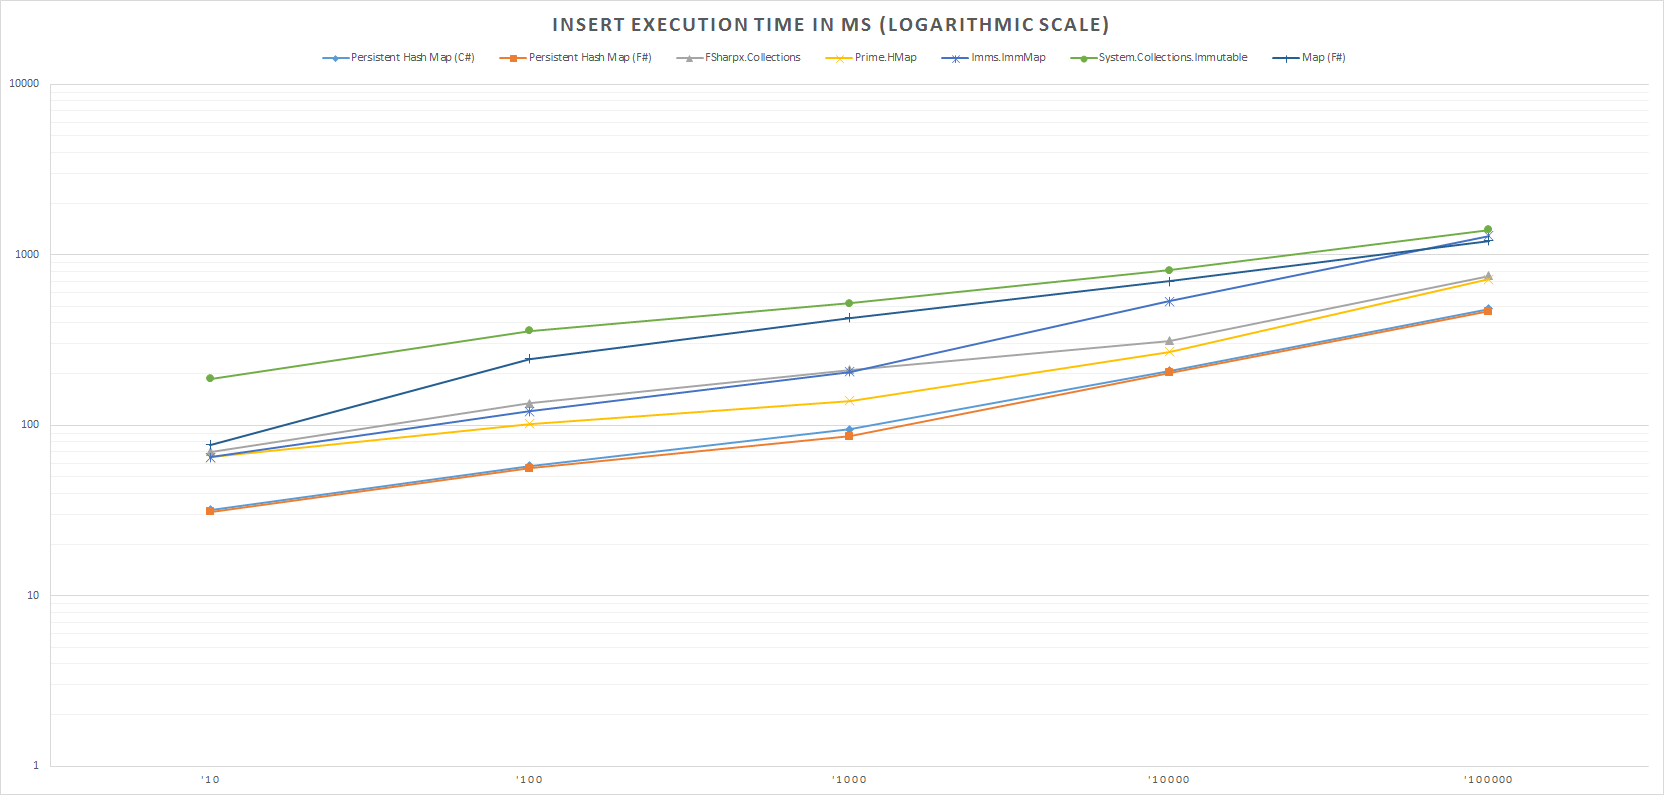
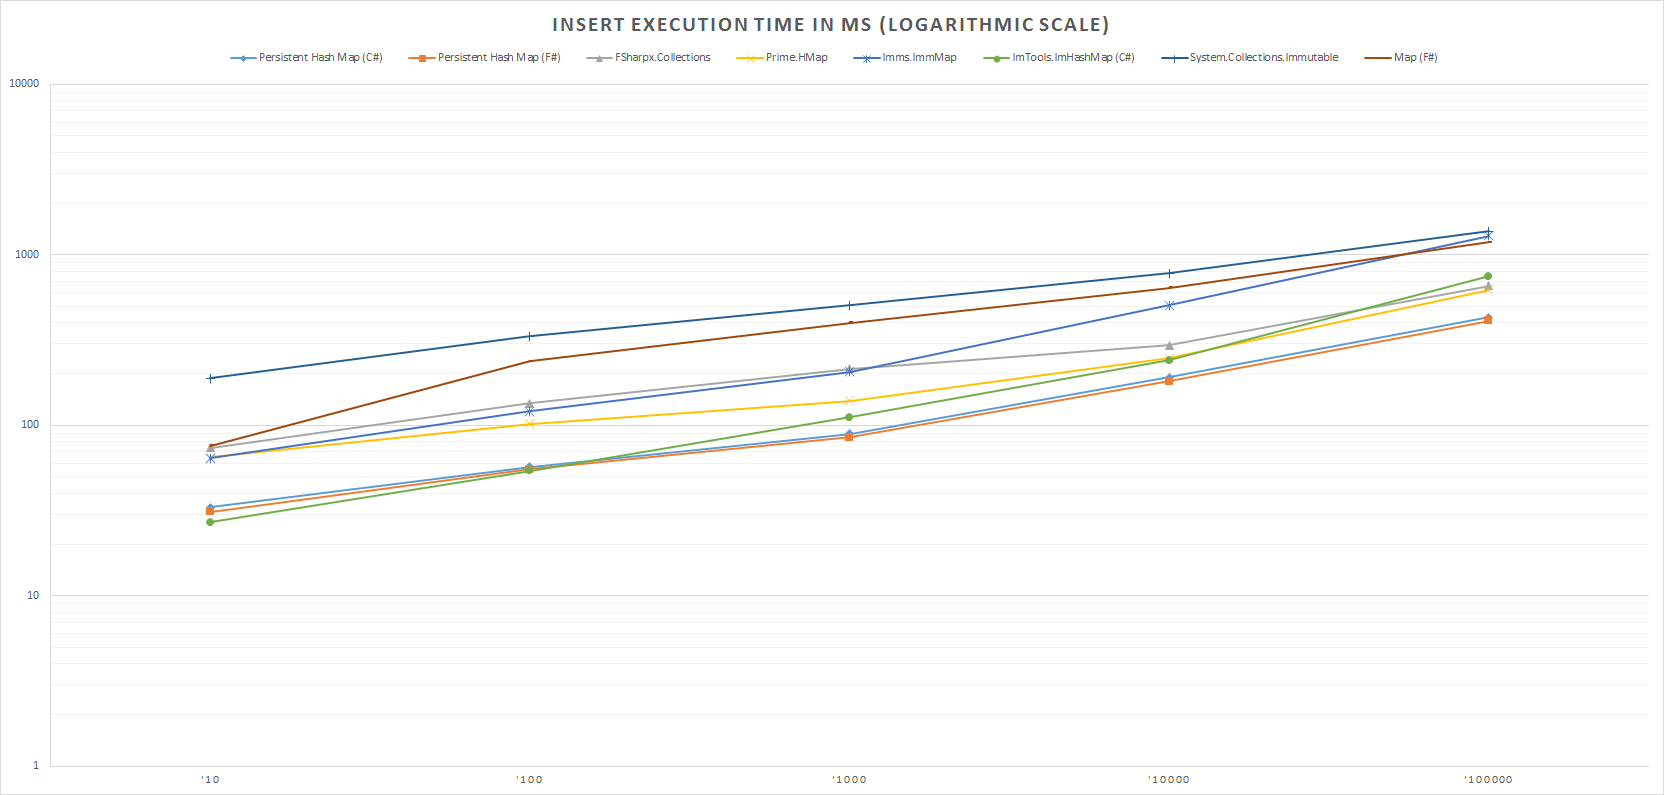
Updated performance charts

diff --git a/README.md b/README.md
@@ -17,6 +17,8 @@
 3. **2017-02-26**
   1. **Updated performance numbers** - Bryan Edds ([@bryanedds](https://github.com/bryanedds)) has been tweaking on `Prime.Hmap`
   1. **Moved images into repo** - Instead of using imgur which is getting out of hand I put the images in the repo.
+3. **2017-03-14**
+  1. **New performance test** - Maksim Volkau ([@dadhi](https://github.com/dadhi)) submitted a new test case for [ImTools](https://github.com/dadhi/ImTools).
 
 ## Background
 
@@ -365,13 +367,14 @@ In addition, it's interesting to see the **Lookup**, **Insert** and **Remove** p
 
 For these tests I focused on the following algorithms:
 
-2. **Persistent Hash Map (C#)** - "My" Map written in C#
-3. **Persistent Hash Map (F#)** - "My" Map written in F#
-5. **FSharpx.Collections.PersistentHashMap**
-6. **Prime.Vmap** - Anthony Lloyd ([@AnthonyLloyd](https://gist.github.com/AnthonyLloyd)) suggested that I compare against [Prime.Vmap](https://github.com/bryanedds/Nu/blob/master/Prime/Prime/Vmap.fs)
-7. **Imms.ImmMap** - Henrik Feldt ([@haf](https://github.com/haf)) suggested that I compare against [Imms.ImmMap](https://github.com/Imms/Imms)
-8. **System.Collections.Immutable.ImmutableDictionary**
-9. **FSharp.Collections.Map**
+1. **Persistent Hash Map (C#)** - "My" Map written in C#
+1. **Persistent Hash Map (F#)** - "My" Map written in F#
+1. **FSharpx.Collections.PersistentHashMap**
+1. **Prime.Vmap** - Anthony Lloyd ([@AnthonyLloyd](https://gist.github.com/AnthonyLloyd)) suggested that I compare against [Prime.Vmap](https://github.com/bryanedds/Nu/blob/master/Prime/Prime/Vmap.fs)
+1. **Imms.ImmMap** - Henrik Feldt ([@haf](https://github.com/haf)) suggested that I compare against [Imms.ImmMap](https://github.com/Imms/Imms)
+1. **ImTools.ImHashMap (C#)** - Maksim Volkau ([@dadhi](https://github.com/dadhi)) submitted a new test case for [ImTools](https://github.com/dadhi/ImTools)
+1. **System.Collections.Immutable.ImmutableDictionary**
+1. **FSharp.Collections.Map**
 
 The data size varies over 10, 100, 1,000, 10,000 and 100,000 elements but the total work is kept constant to make times comparable.
 
